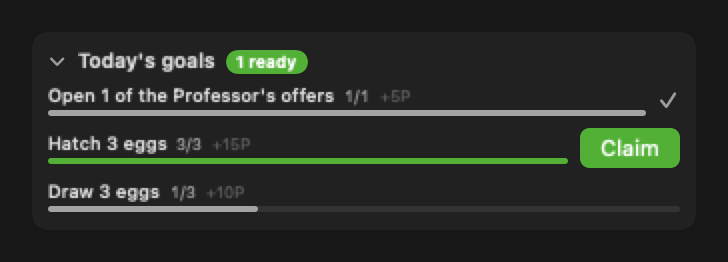
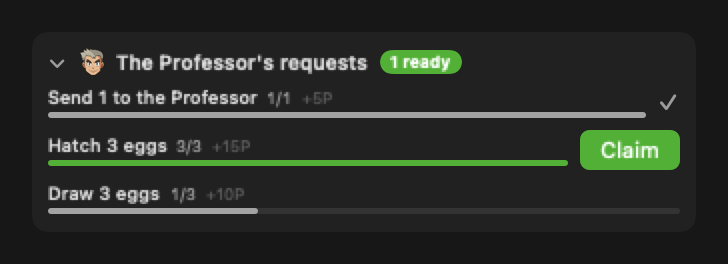
landing: the goals become the Professor's requests

diff --git a/index.html b/index.html
@@ -378,8 +378,8 @@
         <figcaption data-i18n="cap.seasonforms">Deerling and Sawsbuck wear the season the way they do in the games, and it is the real month — the coat changes while you are not looking. Your Mac's region decides the hemisphere, so a Sawsbuck in Australia is in summer at Christmas. No network and no permission: a calendar is all it takes.</figcaption>
       </figure>
       <figure>
-        <div class="shot"><img src="assets/daily-goals.png" alt="Today's goals on the Home tab — one claimed, one ready to claim, one still in progress"></div>
-        <figcaption data-i18n="cap.dailygoals">Three small goals sit on the Home tab under the hatching row and reset with the day: draw eggs, hatch them, evolve something, send a Pokémon to the Professor, open one of his offers. They pay research points rather than currency — the Professor's own coin, which cannot buy eggs and cannot be bought with tokens, so a daily habit never outpaces the shop. Clear all three and one EXP Candy follows, once. The three are rolled from the day and your save's own seed, so they are yours rather than everyone's.</figcaption>
+        <div class="shot"><img src="assets/daily-goals.png" alt="The Professor's requests — one claimed, one ready to claim, one still in progress"></div>
+        <figcaption data-i18n="cap.dailygoals">Three small requests sit under the Professor's offer on the Shop tab and reset with the day: draw eggs, hatch them, evolve something, send a Pokémon his way. They pay research points — his own coin, which cannot buy eggs and cannot be bought with tokens — so what you earn from him is spent on him, one screen up. Clear all three and one EXP Candy follows, once. The three are rolled from the day and your save's own seed, so they are yours rather than everyone's.</figcaption>
       </figure>
       <figure>
         <div class="shot"><img src="assets/weather-forms.png" alt="Castform in its normal, sunny, rainy and snowy forms above Cherrim, which opens only under a clear sky"></div>
@@ -538,7 +538,7 @@
       "cap.gradebadge": "A Pokémon's grade used to mean opening it. Now the level label under each Box cell carries its colour — the same ladder the draw reveal and the hatching slots already use, so the shell you saw it come out of is the one on its cell. Common stays neutral; Rare, Epic and Legendary tint.",
       "cap.seasonforms": "Deerling and Sawsbuck wear the season the way they do in the games, and it is the real month — the coat changes while you are not looking. Your Mac's region decides the hemisphere, so a Sawsbuck in Australia is in summer at Christmas. No network and no permission: a calendar is all it takes.",
       "cap.weatherforms": "Castform and Cherrim read the actual sky where you are — sun, rain and snow each have their own shape, and Cherrim opens only in real sunshine, so a clear night leaves it closed. The location comes from your system time zone, not from you: Asia/Seoul means Seoul, which is precise enough to know whether it is raining. Nothing is fetched unless one of the two is in your Box, and if the network is away the last sky stays.",
-      "cap.dailygoals": "Three small goals sit on the Home tab under the hatching row and reset with the day: draw eggs, hatch them, evolve something, send a Pokémon to the Professor, open one of his offers. They pay research points rather than currency — the Professor's own coin, which cannot buy eggs and cannot be bought with tokens, so a daily habit never outpaces the shop. Clear all three and one EXP Candy follows, once. The three are rolled from the day and your save's own seed, so they are yours rather than everyone's.",
+      "cap.dailygoals": "Three small requests sit under the Professor's offer on the Shop tab and reset with the day: draw eggs, hatch them, evolve something, send a Pokémon his way. They pay research points — his own coin, which cannot buy eggs and cannot be bought with tokens — so what you earn from him is spent on him, one screen up. Clear all three and one EXP Candy follows, once. The three are rolled from the day and your save's own seed, so they are yours rather than everyone's.",
       "cap.charmladder": "Charms used to be a single purchase. Each one is now a ladder you keep climbing: a tier costs double the one below it while the effect grows by a fixed step, so every step costs twice as much per unit of benefit — there is no cap, because the price is the cap. Each row names what it raises, what it does now, and what the next tier would do. Anyone who already owned a charm lands on tier 4, which is exactly what they paid for: 2.00× experience, 1.50× currency, 1/48 shiny.",
       "cap.formchanges": "Forms that only happen mid-battle in the games are carried onto things this app has. Aegislash draws its blade while you're burning tokens; Morpeko reads the same signal the other way and gets Hangry. Cramorant may come back holding a catch each time you make it your partner, and Cherrim blooms on a 20% roll. Minior and Wishiwashi join Mimikyu and Eiscue in reacting to three taps on the pet. Eleven more species are born different, and 24 new Mega Evolutions open with the stone you already have.",
       "cap.gender": "Gender is rolled once when an egg hatches, from that species' real ratio, and never changes — evolution carries it. 98 species have a distinct female look, and the four the games treat as separate forms fill their own Dex entry. It gates six evolutions exactly as the games do: only a female Snorunt becomes Froslass, only a male Ralts becomes Gallade.",
@@ -620,7 +620,7 @@
       "cap.gradebadge": "등급을 알려면 개체를 열어봐야 했는데, 이제 박스 칸의 레벨 라벨이 그 색을 답니다 — 알 뽑기 연출과 부화 슬롯이 쓰는 색 그대로라, 그 아이가 나온 알 껍질이 곧 칸에 붙어 있는 셈이에요. 커먼은 무채색으로 두고 레어·에픽·레전더리만 색이 돕니다.",
       "cap.seasonforms": "사철록과 바라철록은 원작처럼 계절을 입는데, 그것도 진짜 이번 달이라 안 보는 사이에 털이 바뀌어 있어요. 반구는 Mac 의 지역이 정하니 호주의 바라철록은 크리스마스에 여름 모습이에요. 네트워크도 권한도 필요 없어요 — 달력이면 충분합니다.",
       "cap.weatherforms": "캐스퐁과 체리꼬는 지금 그곳의 실제 하늘을 읽어요 — 해·비·눈이 저마다 다른 모습이고, 체리꼬는 진짜 햇살에만 펴서 맑은 밤에는 접힌 채예요. 위치는 사용자가 아니라 시스템 시간대에서 와요: `Asia/Seoul` 이면 서울이고, 비가 오는지에는 그 정도면 충분해요. 둘 중 하나가 박스에 없으면 아무것도 받아 오지 않고, 네트워크가 없으면 마지막 하늘을 그대로 둡니다.",
-      "cap.dailygoals": "홈 탭 부화 슬롯 아래에 하루면 사라지는 목표 셋이 있어요 — 알 뽑기, 부화시키기, 진화시키기, 박사에게 보내기, 제안 열어 보기. 보상은 재화가 아니라 박사 포인트예요. 포인트로는 알을 못 사고 토큰으로는 포인트를 못 사서, 매일 하는 일이 상점을 앞지르지 않아요. 셋을 다 받으면 경험치 사탕 하나가 덤으로 한 번. 셋은 그날 날짜와 내 세이브만의 시드로 굴려서 모두의 것이 아니라 내 것이에요.",
+      "cap.dailygoals": "상점 탭의 박사의 제안 바로 아래에 하루면 사라지는 의뢰 셋이 있어요 — 알 뽑기, 부화시키기, 진화시키기, 박사에게 보내기. 보상은 박사 포인트예요. 포인트로는 알을 못 사고 토큰으로는 포인트를 못 사서, 박사에게 번 것을 바로 위 박사에게 쓰게 돼요. 셋을 다 받으면 경험치 사탕 하나가 덤으로 한 번. 셋은 그날 날짜와 내 세이브만의 시드로 굴려서 모두의 것이 아니라 내 것이에요.",
       "cap.charmladder": "부적은 한 번 사면 끝이었는데, 이제 계속 올리는 사다리예요. 값은 한 단계마다 두 배로 뛰고 효과는 일정하게 붙으니 단위 이득당 비용이 매 단계 두 배가 됩니다 — 상한을 안 둔 건 값이 곧 상한이기 때문이에요. 각 줄이 무엇을 올리는지, 지금 얼마인지, 다음 단계면 얼마인지를 함께 말해 줍니다. 이미 산 사람은 4단계에 놓이는데, 그게 치른 값 그대로예요: 경험치 2.00배, 재화 1.50배, 이로치 1/48.",
       "cap.formchanges": "원작에서 배틀 중에만 일어나는 폼을 이 앱에 있는 것으로 옮겼어요. 킬가르도는 토큰을 쓰는 동안 칼을 뽑고, 모르페코는 같은 신호를 반대로 읽어 배고픈 모드가 됩니다. 윽우지는 파트너로 지정할 때마다 먹이를 물고 올 수 있고, 체리꼬는 20% 확률로 꽃이 펴요. 메테노와 약어리는 따라큐·빙큐보처럼 펫을 세 번 두드리면 반응합니다. 태생 모습이 갈리는 종도 11종 늘었고, 신규 메가진화 24종이 이미 가진 메가스톤으로 열립니다.",
       "cap.gender": "성별은 알에서 깰 때 그 종의 실제 성비로 한 번 정해지고 평생 안 바뀝니다 — 진화해도 이어져요. 98종은 암컷 전용 그림이 있고, 본가가 별개 폼으로 세는 넷은 도감 칸도 따로 채워집니다. 성별로 갈리는 진화 여섯 갈래도 본가 그대로예요: 암컷 눈꼬마만 눈여아가 되고, 수컷 랄토스만 엘레이드가 됩니다.",
@@ -702,7 +702,7 @@
       "cap.gradebadge": "これまでランクを知るには個体を開く必要がありました。いまはボックスのマスのレベル表示がその色をまといます — タマゴ抽選の演出とふ化スロットが使っている色そのままなので、その子が出てきた殻がマスについているようなものです。コモンは無彩色のまま、レア・エピック・レジェンダリーだけ色がつきます。",
       "cap.seasonforms": "シキジカとメブキジカは原作どおり季節をまとい、しかも本物の今月なので、見ていないあいだに毛並みが変わっています。半球は Mac の地域が決めるので、オーストラリアのメブキジカはクリスマスに夏すがたです。ネットワークも許可も不要 — こよみだけで足ります。",
       "cap.weatherforms": "ポワルンとチェリムは、いまそこの実際の空を読みます — 太陽・雨・雪にそれぞれのすがたがあり、チェリムは本物の日ざしにだけ開くので、晴れた夜は閉じたままです。位置はユーザーではなくシステムのタイムゾーンから来ます: `Asia/Seoul` ならソウルで、雨かどうかにはそれで十分です。2ひきのどちらかがボックスにいなければ何も取得せず、ネットワークがなければ最後の空をそのままにします。",
-      "cap.dailygoals": "ホームタブのふ化スロットの下に、1日で消えるもくひょうが3つ — タマゴを引く、かえす、しんかさせる、はかせにおくる、ていあんをあける。ほうびは所持金ではなくはかせポイントです。ポイントでタマゴは買えず、トークンでポイントも買えないので、毎日のしゅうかんがショップを追いこしません。3つとも受けとると、けいけんちアメが1個だけおまけに。3つはその日の日付とセーブごとのシードで決まるので、みんなのものではなく自分のものです。",
+      "cap.dailygoals": "ショップタブのはかせのていあんのすぐ下に、1日で消えるいらいが3つ — タマゴを引く、かえす、しんかさせる、はかせにおくる。ほうびははかせポイント。ポイントでタマゴは買えず、トークンでポイントも買えないので、はかせから得たものをすぐ上のはかせに使うことになります。3つとも受けとると、けいけんちアメが1個だけおまけに。3つはその日の日付とセーブごとのシードで決まるので、みんなのものではなく自分のものです。",
       "cap.charmladder": "おまもりはこれまで買い切りでしたが、いまは上げつづけるはしごです。値段は一段ごとに2倍、効果は一定ずつ増えるので、得ひとつあたりの費用が毎段2倍になります — 上限を置いていないのは値段そのものが上限だからです。各行が「何を上げるか・今いくつか・次のだんかいならいくつか」を伝えます。すでに買った人は4だんかいに置かれ、それは払った分そのまま: 経験値2.00倍、所持金1.50倍、色違い1/48。",
       "cap.formchanges": "本家ではバトル中にしか起きないフォルムを、このアプリにあるものへ移しました。ギルガルドはトークンを使っている間ブレードになり、モルペコは同じ signal を逆に読んではらぺこもように。ウッウはパートナーにするたびに獲物をくわえて帰ることがあり、チェリムは20%でポジティブフォルムに。メテノとヨワシはミミッキュ・コオリッポと同じくペットを3回叩くと反応します。生まれつきすがたが分かれる種も11種増え、新しいメガシンカ24種がすでに持っているメガストーンで開きます。",
       "cap.gender": "性別はタマゴがかえるときにその種の実際の性別比で一度決まり、生涯変わりません — 進化しても受け継がれます。98種にはメス専用のすがたがあり、本家が別フォームとして数える4種はずかんのマスも別々に埋まります。性別で分かれる6つの進化も本家どおり: メスのユキワラシだけがユキメノコに、オスのラルトスだけがエルレイドになります。",
